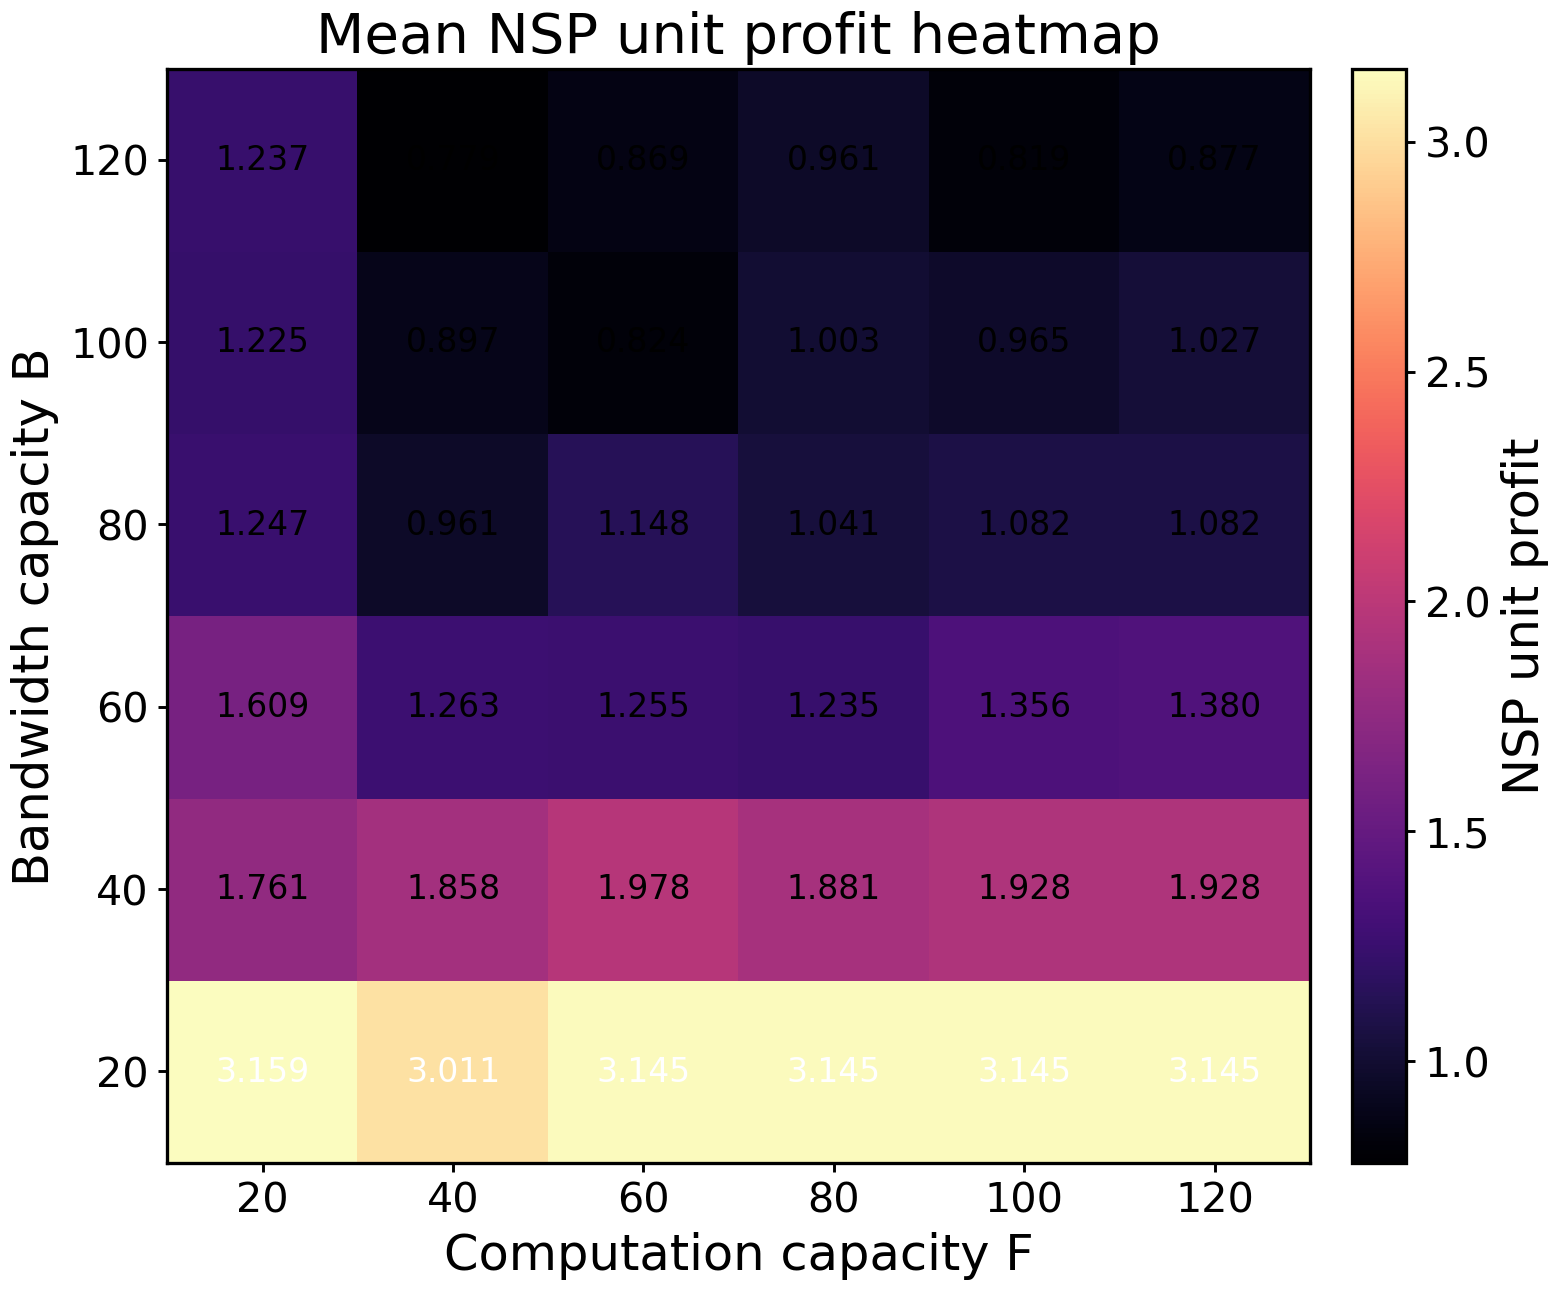
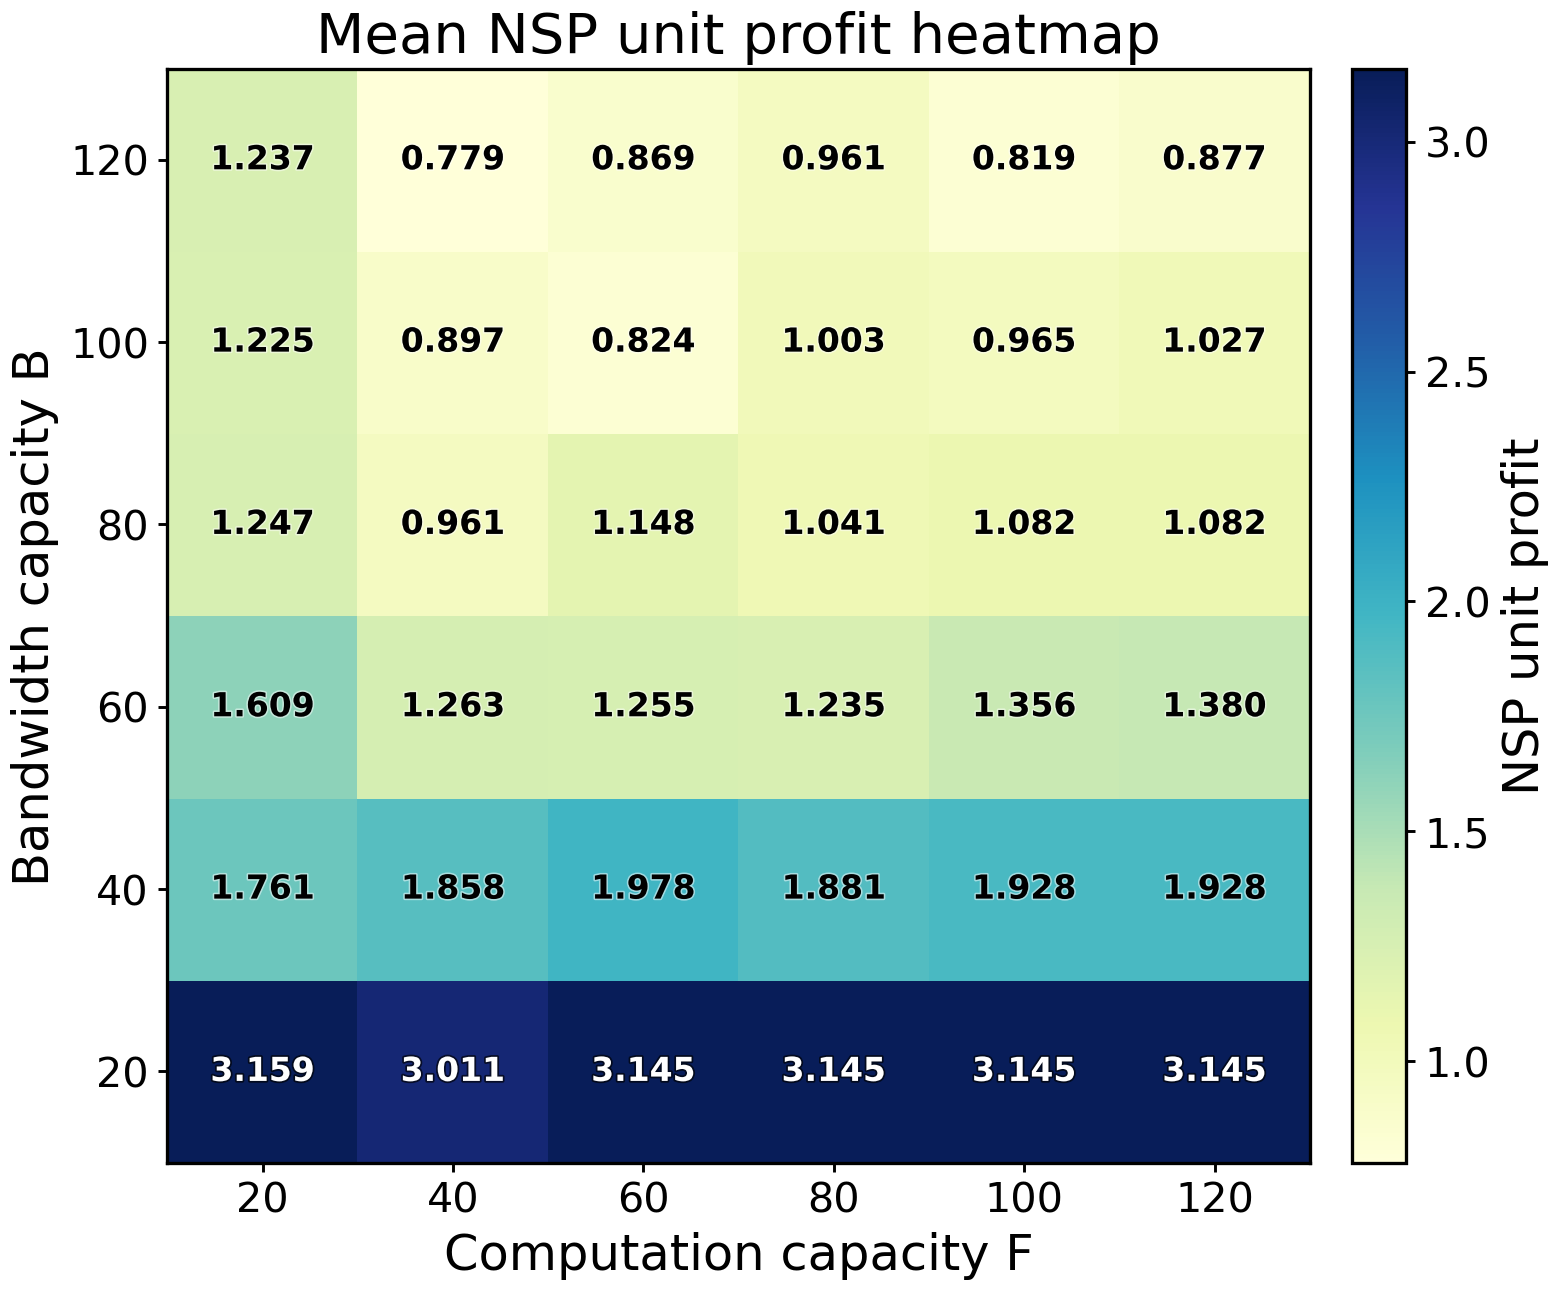
feat(visualization): 改进热图可视化效果
- 根据单元格背景亮度动态调整文本颜色与描边，提升可读性
- 统一并优化多个热图的配色方案，增强视觉一致性
- 为利用率指标添加固定颜色范围 (0-1)，便于跨图比较

diff --git a/scripts/run_vbbr_fb_grid_sweep.py b/scripts/run_vbbr_fb_grid_sweep.py
@@ -29,6 +29,7 @@ matplotlib.use("Agg")
 import matplotlib.pyplot as plt
 from matplotlib import font_manager
 from matplotlib.lines import Line2D
+from matplotlib import patheffects
 import numpy as np
 
 from _figure_wrapper_utils import load_csv_rows, resolve_out_dir, write_csv_rows
@@ -274,6 +275,20 @@ def _format_heatmap_cell(value: float) -> str:
     return f"{float(value):.3f}"
 
 
+def _annotation_style_for_rgba(rgba: tuple[float, float, float, float]) -> tuple[str, list[patheffects.AbstractPathEffect]]:
+    r, g, b, _ = rgba
+    luminance = 0.2126 * float(r) + 0.7152 * float(g) + 0.0722 * float(b)
+    if luminance < 0.45:
+        return (
+            "white",
+            [patheffects.withStroke(linewidth=1.35, foreground="black", alpha=0.65)],
+        )
+    return (
+        "black",
+        [patheffects.withStroke(linewidth=1.2, foreground="white", alpha=0.5)],
+    )
+
+
 def _plot_metric_heatmap(
     rows: list[dict[str, object]],
     *,
@@ -286,6 +301,8 @@ def _plot_metric_heatmap(
     cmap: str,
     language: str,
     font_scale: float = 1.25,
+    vmin: float | None = None,
+    vmax: float | None = None,
 ) -> None:
     with plt.rc_context():
         _configure_fonts(language, font_scale)
@@ -295,7 +312,7 @@ def _plot_metric_heatmap(
         if finite.size == 0:
             raise ValueError(f"No finite values found for heatmap metric: {y_key}")
 
-        im = ax.imshow(grid, origin="lower", aspect="auto", cmap=cmap)
+        im = ax.imshow(grid, origin="lower", aspect="auto", cmap=cmap, vmin=vmin, vmax=vmax)
         ax.set_xticks(np.arange(len(x_values)))
         ax.set_xticklabels([_format_tick(value) for value in x_values])
         ax.set_yticks(np.arange(len(b_values)))
@@ -309,15 +326,14 @@ def _plot_metric_heatmap(
         ax.set_title(title)
         _style_axis_black(ax, include_x=True, include_y=True)
 
-        span = float(np.max(finite) - np.min(finite))
-        threshold = float(np.min(finite) + 0.58 * span) if span > 0.0 else float(np.min(finite))
         for b_idx in range(len(b_values)):
             for f_idx in range(len(x_values)):
                 value = float(grid[b_idx, f_idx])
                 if not np.isfinite(value):
                     continue
-                text_color = "white" if value >= threshold else "black"
-                ax.text(
+                rgba = im.cmap(im.norm(value))
+                text_color, text_effects = _annotation_style_for_rgba(rgba)
+                text = ax.text(
                     f_idx,
                     b_idx,
                     _format_heatmap_cell(value),
@@ -325,7 +341,9 @@ def _plot_metric_heatmap(
                     va="center",
                     color=text_color,
                     fontsize=10.0 * font_scale,
+                    fontweight="semibold",
                 )
+                text.set_path_effects(text_effects)
 
         cbar = fig.colorbar(im, ax=ax, pad=0.03)
         cbar.set_label(colorbar_label)
@@ -905,7 +923,7 @@ def main() -> None:
             "title_zh": "\u5e73\u5747 ESP \u5355\u4f4d\u5229\u6da6\u70ed\u56fe",
             "label_en": "ESP unit profit",
             "label_zh": "ESP\u5355\u4f4d\u5229\u6da6",
-            "cmap": "viridis",
+            "cmap": "YlGnBu",
         },
         {
             "key": "price_margin_N",
@@ -914,7 +932,7 @@ def main() -> None:
             "title_zh": "\u5e73\u5747 NSP \u5355\u4f4d\u5229\u6da6\u70ed\u56fe",
             "label_en": "NSP unit profit",
             "label_zh": "NSP\u5355\u4f4d\u5229\u6da6",
-            "cmap": "magma",
+            "cmap": "YlGnBu",
         },
         {
             "key": "comp_utilization",
@@ -923,7 +941,9 @@ def main() -> None:
             "title_zh": "\u5e73\u5747\u8ba1\u7b97\u8d44\u6e90\u5229\u7528\u7387\u70ed\u56fe",
             "label_en": "Computation utilization",
             "label_zh": "\u8ba1\u7b97\u8d44\u6e90\u5229\u7528\u7387",
-            "cmap": "YlGn",
+            "cmap": "Blues",
+            "vmin": 0.0,
+            "vmax": 1.0,
         },
         {
             "key": "band_utilization",
@@ -932,7 +952,9 @@ def main() -> None:
             "title_zh": "\u5e73\u5747\u5e26\u5bbd\u5229\u7528\u7387\u70ed\u56fe",
             "label_en": "Bandwidth utilization",
             "label_zh": "\u5e26\u5bbd\u5229\u7528\u7387",
-            "cmap": "YlOrRd",
+            "cmap": "Blues",
+            "vmin": 0.0,
+            "vmax": 1.0,
         },
         {
             "key": "offloading_ratio",
@@ -941,7 +963,7 @@ def main() -> None:
             "title_zh": "\u5e73\u5747\u5378\u8f7d\u6bd4\u4f8b\u70ed\u56fe",
             "label_en": "Offloading ratio",
             "label_zh": "\u5378\u8f7d\u6bd4\u4f8b",
-            "cmap": "PuBu",
+            "cmap": "YlGnBu",
         },
         {
             "key": "offloading_size",
@@ -950,7 +972,7 @@ def main() -> None:
             "title_zh": "\u5e73\u5747\u5378\u8f7d\u7528\u6237\u6570\u70ed\u56fe",
             "label_en": "Number of offloading users",
             "label_zh": "\u5378\u8f7d\u7528\u6237\u6570",
-            "cmap": "BuPu",
+            "cmap": "YlGnBu",
         },
         {
             "key": "social_cost",
@@ -959,7 +981,7 @@ def main() -> None:
             "title_zh": "\u5e73\u5747\u793e\u4f1a\u6210\u672c\u70ed\u56fe",
             "label_en": "Total user social cost",
             "label_zh": "\u7528\u6237\u603b\u793e\u4f1a\u6210\u672c",
-            "cmap": "cividis",
+            "cmap": "RdYlBu_r",
         },
         {
             "key": "joint_revenue",
@@ -968,7 +990,7 @@ def main() -> None:
             "title_zh": "\u5e73\u5747\u8054\u5408\u6536\u76ca\u70ed\u56fe",
             "label_en": "Joint provider revenue",
             "label_zh": "\u8054\u5408\u670d\u52a1\u5546\u6536\u76ca",
-            "cmap": "plasma",
+            "cmap": "YlGnBu",
         },
     ]
     for spec in heatmap_specs:
@@ -982,6 +1004,8 @@ def main() -> None:
             y_key=str(spec["key"]),
             cmap=str(spec["cmap"]),
             language="en",
+            vmin=(float(spec["vmin"]) if "vmin" in spec else None),
+            vmax=(float(spec["vmax"]) if "vmax" in spec else None),
         )
         _plot_metric_heatmap(
             rows,
@@ -993,6 +1017,8 @@ def main() -> None:
             y_key=str(spec["key"]),
             cmap=str(spec["cmap"]),
             language="zh",
+            vmin=(float(spec["vmin"]) if "vmin" in spec else None),
+            vmax=(float(spec["vmax"]) if "vmax" in spec else None),
         )
 
     if metrics_csv is None and runtime_total_sec is not None:
